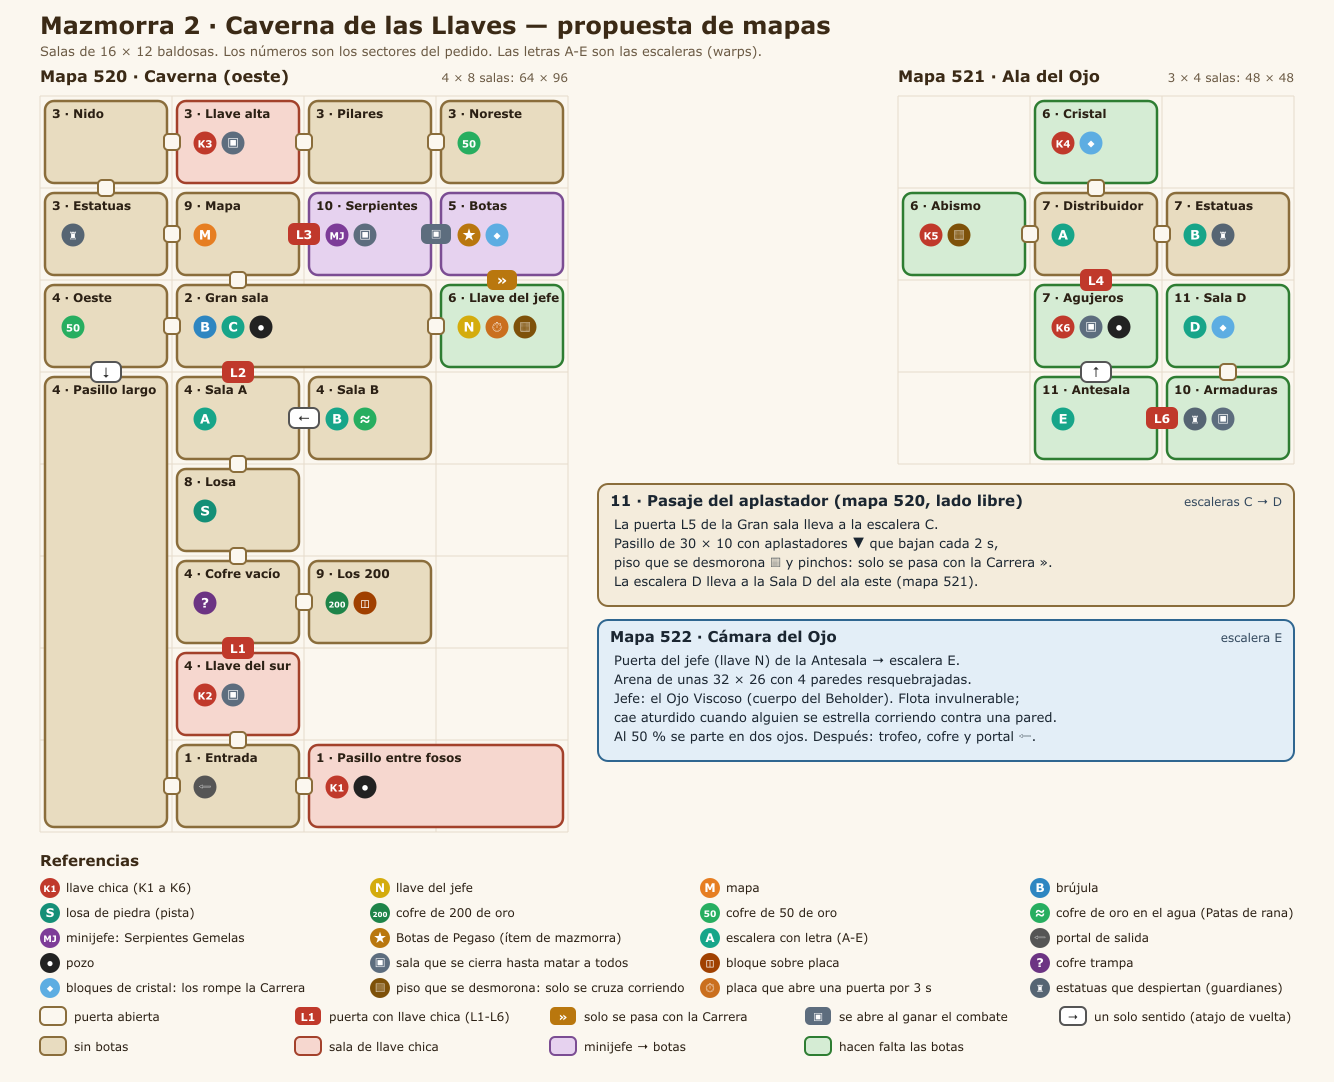
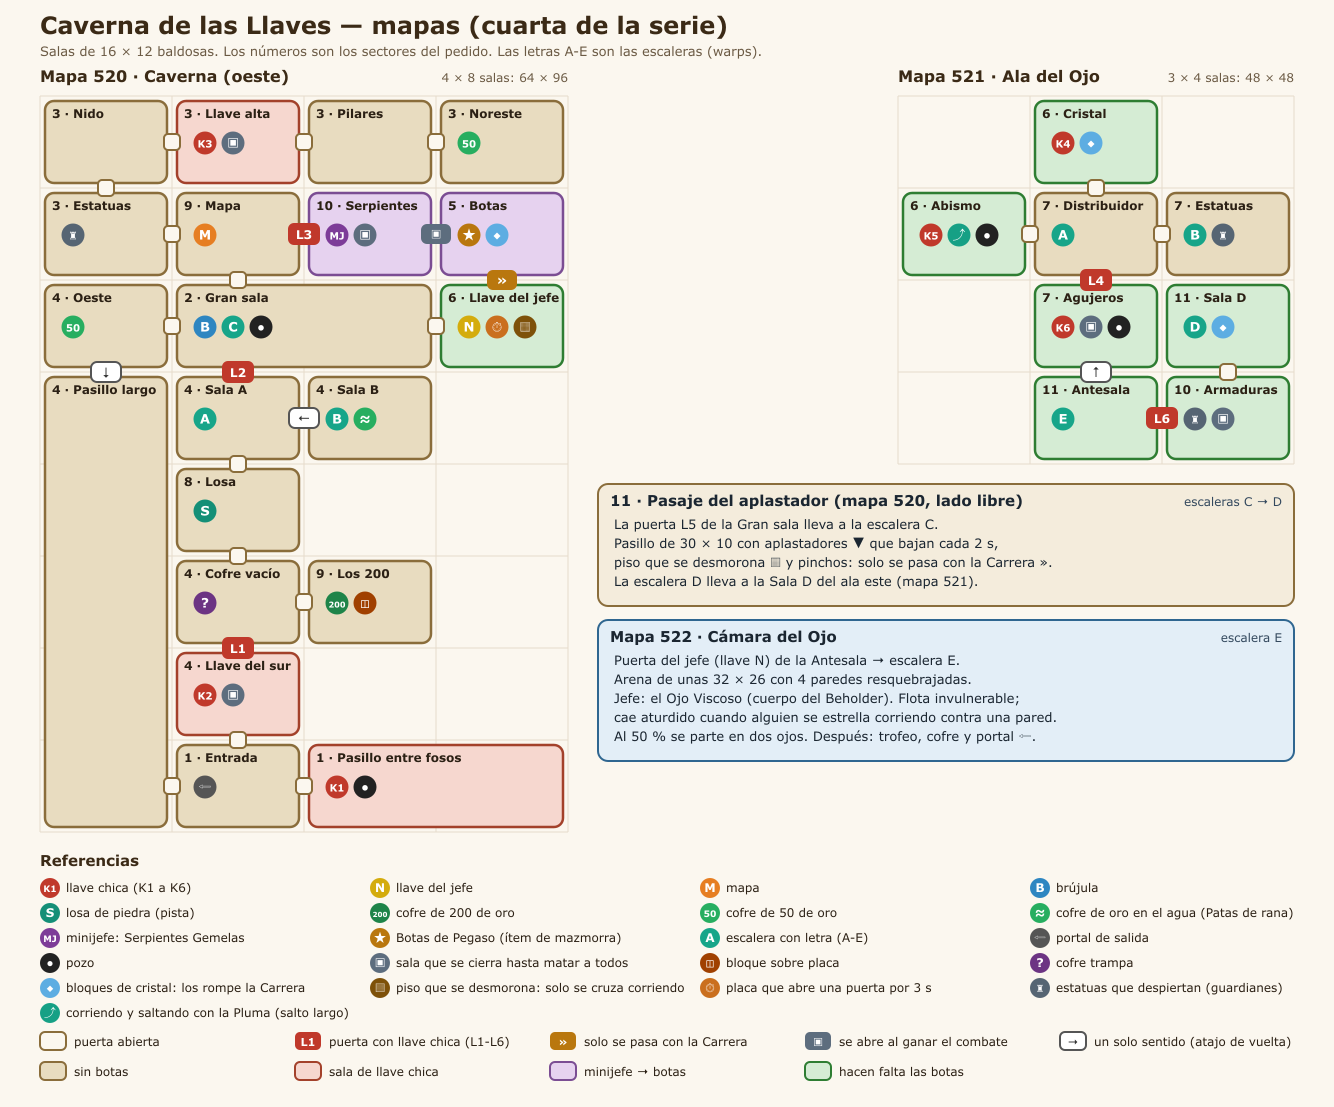
Mazmorras: patrón de Link's Awakening, la pluma y la Carrera basada en el Dash Attack anterior
- docs/mazmorras/00-PATRON_LINKS_AWAKENING.md: las mazmorras del original en orden, con su ítem, minijefes,
  jefe, instrumento y llave, el patrón de la serie y cómo se ordena la nuestra.
- La Caverna de las Llaves pasa a ser la cuarta de la serie (después de la mazmorra de la pluma): el Abismo se
  cruza corriendo y saltando, como en el original. Se especifica el salto con la pluma.
- La Carrera se basa en el Dash Attack de _Argentum/_React-Argentum, con la carga previa y la estela de Zelda.

diff --git a/docs/mazmorras/02-CAVERNA_DE_LAS_LLAVES.md b/docs/mazmorras/02-CAVERNA_DE_LAS_LLAVES.md
@@ -1,6 +1,8 @@
-# Mazmorra 2 · Caverna de las Llaves
+# Caverna de las Llaves
 
-Fecha: 2026-10-26. Estado: **diseño, a confirmar**. El sistema (instancias, grupo, ítems de mazmorra, mecánicas) está en [../MAZMORRAS.md](../MAZMORRAS.md); la mazmorra 1, en [01-GRUTA_DEL_ABISAL.md](01-GRUTA_DEL_ABISAL.md).
+Fecha: 2026-10-26. Estado: **en construcción**. El sistema (instancias, grupo, ítems de mazmorra, mecánicas) está en [../MAZMORRAS.md](../MAZMORRAS.md); la mazmorra 1, en [01-GRUTA_DEL_ABISAL.md](01-GRUTA_DEL_ABISAL.md).
+
+**Lugar en la serie:** es la cuarta, después de la mazmorra de la pluma, como en el original (ver [00-PATRON_LINKS_AWAKENING.md](00-PATRON_LINKS_AWAKENING.md)). Adentro hace falta saltar con la pluma. Hasta que exista la mazmorra que la da, la Caverna queda en desarrollo: entra un GM, y la pluma se da a mano para probar.
 
 Adaptación de la **Cueva de las Llaves** (*Key Cavern*) de *Link's Awakening*. No se copia baldosa por baldosa: se respeta la estructura jugable, que es esta:
 - muchas llaves chicas, que obligan a recorrer todo;
@@ -46,7 +48,7 @@ Una sala de 16 × 12 entra en una pantalla del juego, igual que en Zelda.
 
 ## 3. Salas
 
-Celda = (columna, fila); la fila 0 es la de arriba. Los números de sector son los del pedido (sección 8).
+Celda = (columna, fila); la fila 0 es la de arriba. Los números de sector son los del pedido (sección 9).
 
 ### Mapa 520 (oeste)
 | Sala | Celda | Sector | Contenido | Criaturas | Trampas |
@@ -79,7 +81,7 @@ Celda = (columna, fila); la fila 0 es la de arriba. Los números de sector son l
 | Distribuidor | (1,1) | 7 | **Escalera A**; puertas a las 4 salas | De presión | — |
 | Estatuas | (2,1) | 7 | **Escalera B** | Estatuas que despiertan | Pasillos entre estatuas |
 | Cristal | (1,0) | 6 | **K4** detrás de bloques de cristal | Guardianes | Bloques de cristal |
-| Abismo | (0,1) | 6 | **K5** del otro lado de un abismo, por un puente que se desmorona | De presión | Piso que se desmorona, pozos |
+| Abismo | (0,1) | 6 | **K5** del otro lado de un abismo de 2 baldosas: se cruza corriendo y saltando al llegar al borde (botas y pluma), como en el original | De presión | Pozos |
 | Agujeros | (1,2) | 7 | **K6** al vaciarla | Guardianes | Se cierra al entrar; pozos |
 | Sala D | (2,2) | 11 | **Escalera D** (llega del pasaje), entre bloques de cristal | — | Bloques de cristal |
 | Armaduras | (2,3) | 10 | Encuentro antes del jefe | Estatuas que despiertan, muchas | Se cierra al entrar |
@@ -101,7 +103,7 @@ Celda = (columna, fila); la fila 0 es la de arriba. Los números de sector son l
    - Al este, el altar con las **Botas de Pegaso**. La salida está tapada por cristales: el primer uso de la Carrera es para salir.
 3. **Con las botas** (en cualquier orden):
    - Llave del jefe: se aprieta la placa y, corriendo, se cruza el puente que se desmorona antes de que se cierre la reja: **llave del jefe**.
-   - Escalera A → ala este: Cristal (romper los cristales: **K4**) y Abismo (cruzar el puente corriendo: **K5**).
+   - Escalera A → ala este: Cristal (romper los cristales: **K4**) y Abismo (correr y saltar al llegar al borde: **K5**).
    - **L4** (Distribuidor → Agujeros): se cierra, guardianes: **K6**.
 4. **Recta final:**
    - **L5** (Gran sala → escalera C): el Pasaje del aplastador, que solo se pasa corriendo entre golpe y golpe.
@@ -118,7 +120,7 @@ Celda = (columna, fila); la fila 0 es la de arriba. Los números de sector son l
 | K2 | Llave del sur | Matar a los guardianes | L2 | Sala A → Gran sala |
 | K3 | Llave alta | Matar a los guardianes | L3 | Mapa → Serpientes |
 | K4 | Cristal | Botas (romper cristales) | L4 | Distribuidor → Agujeros |
-| K5 | Abismo | Botas (puente que se desmorona) | L5 | Gran sala → escalera C |
+| K5 | Abismo | Botas y pluma (salto largo) | L5 | Gran sala → escalera C |
 | K6 | Agujeros | Matar a los guardianes | L6 | Armaduras → Antesala |
 | Llave del jefe | Llave del jefe (520) | Botas (placa con tiempo y puente) | Puerta del jefe | Antesala → escalera E |
 
@@ -167,7 +169,8 @@ Son capturas del juego, con las criaturas de AO de las que toman el cuerpo; las 
 | Salas que se cierran | Llave del sur, Llave alta, Serpientes, Agujeros, Armaduras y el cofre trampa | Combate obligatorio |
 | Placas y bloques | Los 200 | Puzzle que da la recompensa secundaria |
 | Bloques de cristal | Botas, Cristal, Sala D | Lo que abre la Carrera |
-| Piso que se desmorona | Llave del jefe, Abismo, Pasaje | Solo se cruza corriendo |
+| Piso que se desmorona | Llave del jefe, Pasaje | Solo se cruza corriendo |
+| Pozos para saltar | Abismo (salto largo), Pasaje (pinchos) | Lo que abre la pluma |
 | Placa con tiempo | Llave del jefe | Llegar antes de que se cierre la reja |
 | Aplastadores | Pasaje | Pasillo con tiempo |
 
@@ -201,18 +204,35 @@ Pasean en 3 × 3 cuando no persiguen a nadie, como en la mazmorra de prueba. La 
 
 **Uso real en esta mazmorra:** hace falta para salir de la sala del ítem, para la llave del jefe, para K4 y K5, para el pasaje y para bajar al jefe. Sin las botas no se termina.
 
-**Base técnica:** en el juego **no hay ninguna embestida o carga implementada**: no está en el código, ni en los datos, ni en otras ramas. La Carrera se hace nueva, apoyada en lo que sí existe:
-- el paso validado por el server (`processUserMovement`), que la Carrera repite varias veces a ritmo rápido;
-- el multiplicador del tiempo de cada paso que ya usa la Descarga eléctrica (`getWalkStepMultiplier`), al revés: para acelerar en vez de frenar;
-- los efectos de polvo, los sonidos de mazmorra y el empuje.
+**Base técnica: el Dash Attack del server anterior.** Está en `leb90/_Argentum` y `leb90/_React-Argentum`, y era del guerrero de nivel 50 o más.
+- **Cómo se usaba:** se mantenía Shift izquierdo con una dirección y se soltaba.
+- **Qué hacía el server:** juntaba lo que había en el camino (hasta 4 baldosas, frenando en lo bloqueado) y movía al personaje baldosa por baldosa cada 30 ms. A los que lo veían les mandaba la posición, con un efecto cada 2 baldosas y un sonido al final, y aplicaba el daño ×1,5 a lo que había atravesado.
 
-## 7. Mecánicas nuevas que necesita
+Andaba bien. Lo que le faltaba era el aspecto de Zelda, y es lo que se suma ahora:
+- **Carga previa:** medio segundo con el personaje pataleando en el lugar (la animación de caminar, rápida y sin moverse) y polvo en los pies.
+- **Estela:** copias del personaje que se desvanecen detrás, con polvo en cada baldosa.
+- **Choque:** frena en seco, con un temblor corto y un sonido de golpe.
+
+## 7. La pluma (salto)
+
+La da la mazmorra 1 del original. Acá se usa, así que el salto queda programado con esta mazmorra. Cuando se haga la mazmorra que la entrega, se le pasa.
+- **Nombre:** Pluma de Roc (propuesta). Es un ítem de mazmorra y solo funciona adentro.
+- **Qué hace:** salta en la dirección en la que mira, en arco, con la sombra en el piso.
+  - **Parado o caminando:** cae 2 baldosas adelante, así que pasa por encima de 1 baldosa de pozo, lava, pinchos o piso que se desmorona.
+  - **Corriendo con las botas:** cae 3 baldosas adelante, por encima de 2 (el salto largo del original).
+- **Dónde no cae:** en paredes, en lo bloqueado ni en el agua profunda. Si no hay dónde caer, no salta.
+- **En el aire:** no se ataca. Se puede volver a saltar al rato (1 s).
+- **Cómo se usa:** con un atajo de teclado, un botón en la franja "Mazmorra" o uno en el celular, igual que la Carrera.
+
+## 8. Mecánicas nuevas que necesita
 
 Las de la mazmorra 1 (llaves, salas que se cierran, pozos, placas, bloques, losas, agua profunda, cofres) ya están hechas. Faltan:
 
 | Mecánica | Para qué |
 |---|---|
 | La Carrera (ítem) | El ítem de esta mazmorra |
+| El salto (pluma) | La pide el Abismo; viene de la mazmorra anterior de la serie |
+| Puertas de un solo sentido | Los atajos de vuelta (también los usa la Gruta) |
 | Bloques de cristal | Se rompen con la Carrera; no vuelven en la corrida |
 | Piso que se desmorona | Se rompe un instante después de pisarlo y queda como pozo unos segundos; caminando no se llega al otro lado |
 | Placa con tiempo | Abre una puerta por unos segundos |
@@ -221,7 +241,7 @@ Las de la mazmorra 1 (llaves, salas que se cierran, pozos, placas, bloques, losa
 | Estatuas que despiertan | Criaturas quietas hasta que alguien se acerca |
 | Criaturas en pareja | Para las Serpientes y la fase 2 del ojo: la muerta revive si la otra sigue viva |
 
-## 8. Los 11 sectores del pedido
+## 9. Los 11 sectores del pedido
 
 | Sector del pedido | Dónde queda |
 |---|---|
@@ -230,14 +250,14 @@ Las de la mazmorra 1 (llaves, salas que se cierran, pozos, placas, bloques, losa
 | 3. Rama superior de progresión | Estatuas, Nido, Llave alta (K3), Pilares y Noreste: pasillos angostos y salas chicas, empujando hacia arriba y a la derecha |
 | 4. Rama izquierda secundaria | Llave del sur (K2), Cofre vacío (trampa), Sala A y B, Oeste y el Pasillo largo como atajo |
 | 5. Sector del ítem principal | Botas: el altar después del minijefe; para salir hay que usarlas |
-| 6. Puzzle con velocidad | Llave del jefe (placa con tiempo y puente), Cristal (K4), Abismo (K5) |
+| 6. Puzzle con velocidad | Llave del jefe (placa con tiempo y puente), Cristal (K4), Abismo (K5, corriendo y saltando) |
 | 7. Rama derecha de progreso | Ala este: Distribuidor (A), Estatuas (B), Agujeros (K6), con guardianes y salas que se cierran |
 | 8. Lore / pista | Losa: la pista del jefe y de la Carrera |
 | 9. Reward secundaria | Mapa (en su pasillo) y Los 200 (puzzle de placa) |
 | 10. Encuentro importante | Serpientes Gemelas (abren las botas) y Armaduras (abren la recta final) |
 | 11. Recta final | L5 → Pasaje del aplastador → Sala D → Armaduras → Antesala → Cámara del Ojo |
 
-## 9. Para confirmar
+## 10. Para confirmar
 
 | Tema | Propuesta |
 |---|---|
@@ -246,4 +266,5 @@ Las de la mazmorra 1 (llaves, salas que se cierran, pozos, placas, bloques, losa
 | Minijefe y jefe | Serpientes Gemelas (Serpiente) y Ojo Viscoso (Beholder) |
 | Trofeo | Iris del Ojo |
 | Gráficos | Piso de tierra y paredes de roca de las cuevas de AO |
-| Orden | Primero se arma la Gruta (etapa 3 de [../MAZMORRAS.md](../MAZMORRAS.md)); después, la Carrera y las mecánicas nuevas, y por último esta mazmorra con el mismo generador de planos |
+| Pluma | Pluma de Roc, con el salto de la sección 7 |
+| Orden en la serie | Cuarta, después de la mazmorra de la pluma (ver [00-PATRON_LINKS_AWAKENING.md](00-PATRON_LINKS_AWAKENING.md)) |

diff --git a/docs/mazmorras/00-PATRON_LINKS_AWAKENING.md b/docs/mazmorras/00-PATRON_LINKS_AWAKENING.md
@@ -1,0 +1,52 @@
+# Patrón de la serie: las mazmorras de *Link's Awakening*
+
+Fecha: 2026-10-26. Es la referencia para ordenar nuestras mazmorras: qué ítem da cada una, qué ítems anteriores pide y cómo se encadenan. El sistema está en [../MAZMORRAS.md](../MAZMORRAS.md).
+
+## 1. Las mazmorras del original, en orden
+
+| # | Mazmorra (original) | Ítem que da | Para qué sirve el ítem | Minijefe(s) | Jefe | Instrumento | Para entrar hace falta |
+|---|---|---|---|---|---|---|---|
+| 1 | Cueva de la Cola (*Tail Cave*) | Pluma de Roc (*Roc's Feather*) | Saltar pozos y obstáculos chicos | Rodillo de Púas (*Spike Roller*, *Rolling Bones*) | Moldorm | Violonchelo de Luna Llena (*Full Moon Cello*) | Llave de la Cola (bosque) |
+| 2 | Gruta de la Botella (*Bottle Grotto*) | Pulsera de Fuerza (*Power Bracelet*) | Levantar y tirar vasijas, piedras y cráneos | Hinox amarillo | Genio (*Genie*) | Caracola (*Conch Horn*) | Ir con BowWow |
+| 3 | Cueva de las Llaves (*Key Cavern*) | Botas de Pegaso (*Pegasus Boots*) | Correr en línea recta; con la pluma, salto largo | Serpientes Dodongo (dos) | Ojo Viscoso (*Slime Eye*) | Campana de Lirio de Mar (*Sea Lily's Bell*) | Llave del Limo (5 hojas doradas) |
+| 4 | Túnel del Pez Abisal (*Angler's Tunnel*) | Aletas (*Flippers*) | Nadar y bucear en agua profunda | Hidrosaurio (*Cue Ball*) | Pez Abisal (*Angler Fish*) | Arpa del Oleaje (*Surf Harp*) | Llave del Abisal (Lanmola, desierto) |
+| 5 | Fauces del Bagre (*Catfish's Maw*) | Gancho (*Hookshot*) | Engancharse a cofres y bloques para cruzar | Maestro Stalfos (varias veces) y dos Gohma | Anguila Viscosa (*Slime Eel*) | Marimba del Viento (*Wind Marimba*) | Las Aletas |
+| 6 | Santuario del Rostro (*Face Shrine*) | Pulsera Poderosa (*Powerful Bracelet*) | Levantar cosas más pesadas | Serpientes Dodongo y Rover (*Smasher*) | Fachada (*Facade*) | Triángulo de Coral (*Coral Triangle*) | Llave del Rostro (Caballero Armos) |
+| 7 | Torre del Águila (*Eagle's Tower*) | Escudo Espejo (*Mirror Shield*) | Rebotar rayos y proyectiles | Hinox rojo y Grim Creeper | Águila Malvada (*Evil Eagle*) | Órgano de la Calma Vespertina (*Organ of Evening Calm*) | Llave del Pájaro |
+| 8 | Roca Tortuga (*Turtle Rock*) | Vara Mágica (*Magic Rod*) | Tirar fuego; derrite hielo | Varios minijefes anteriores y Blaino | Cabeza Ardiente (*Hot Head*) | Tambor del Trueno (*Thunder Drum*) | El Escudo Espejo |
+| — | Mazmorra del Color (opcional, versión DX) | Túnica roja o azul | Más daño o más defensa | Gran Buzz Blob y Hinox de piedra | Escarabajo Duro (*Hardhit Beetle*) | — | La Pulsera de Fuerza |
+
+Los nombres en castellano son traducciones nuestras; los del juego van entre paréntesis.
+
+## 2. El patrón
+
+- **Cada mazmorra da un ítem que se usa adentro:** la primera mitad se recorre sin él; el minijefe abre el camino al ítem y, con el ítem, se llega a lo que faltaba y al jefe.
+- **Los ítems se acumulan:** cada mazmorra usa los de las anteriores. Por ejemplo, en la Cueva de las Llaves el pozo grande se cruza corriendo con las botas y saltando con la pluma al llegar al borde. Y se entra a las Fauces del Bagre nadando con las aletas.
+- **El orden de los ítems:** saltar → levantar → correr → nadar → engancharse → levantar más → rebotar → fuego. Cada uno abre trampas nuevas en las mazmorras siguientes.
+- **El jefe se vence con el ítem de su mazmorra:** al Ojo Viscoso se lo baja estrellándose corriendo contra la pared; al Pez Abisal, nadando.
+- **Cada jefe guarda un instrumento:** son los trofeos de la serie, y juntos abren el final.
+
+## 3. Nuestra serie
+
+Cada ítem nuestro adapta uno del original, con nombre propio cuando hace falta (las Aletas son nuestras Patas de rana). Todos son ítems de mazmorra: quedan para siempre en el personaje y solo funcionan adentro.
+
+| Orden | Mazmorra nuestra | Adapta | Ítem | Estado |
+|---|---|---|---|---|
+| 1 | Gruta del Abisal | 4 · Túnel del Pez Abisal | Patas de rana (nadar) | Diseñada ([01-GRUTA_DEL_ABISAL.md](01-GRUTA_DEL_ABISAL.md)); el motor y las mecánicas ya están |
+| 2 | (a definir) | 1 · Cueva de la Cola | Pluma (saltar) | Falta el plano: el salto ya queda listo con la Caverna |
+| 3 | (a definir) | 2 · Gruta de la Botella | Pulsera (levantar) | — |
+| 4 | Caverna de las Llaves | 3 · Cueva de las Llaves | Botas de Pegaso (correr) | Diseñada ([02-CAVERNA_DE_LAS_LLAVES.md](02-CAVERNA_DE_LAS_LLAVES.md)); pide la pluma |
+| 5 en adelante | — | 5 a 8 del original | Gancho, pulsera poderosa, escudo espejo, vara | — |
+
+- **Por qué la Gruta va primera:** ya estaba diseñada y con el motor hecho, y nadar no depende de los otros ítems. Del original en adelante se respeta el orden.
+- **Por qué la Caverna va después de la mazmorra de la pluma:** la pide adentro. Hasta que esa mazmorra exista, la Caverna queda en desarrollo: entra un GM, y la pluma se puede dar a mano para probar.
+- **Números de archivo y de mapas:** siguen el orden en que se diseña cada mazmorra, no el de juego. La Caverna es el archivo 02 y usa los mapas 520-522.
+- **Trofeos:** en vez de instrumentos, cada jefe da un coleccionable de la serie (la Escama del Abisal, el Iris del Ojo, …).
+
+## Fuentes
+- [Game8: lista de mazmorras](https://game8.co/games/Zelda-Links-Awakening/archives/270111): ítem, jefe y llave para entrar de cada una.
+- [Game8: lista de minijefes](https://game8.co/games/Zelda-Links-Awakening/archives/270127).
+- [Game8: jefes](https://game8.co/games/Zelda-Links-Awakening/archives/270126).
+- [Zelda Wiki (Fandom): Fauces del Bagre](https://zelda.fandom.com/wiki/Catfish's_Maw).
+- [Gamer Guides: la Cueva de las Llaves](https://www.gamerguides.com/the-legend-of-zelda-links-awakening/guide/walkthrough/sea-lily-s-bell/key-cavern): el salto largo con las botas y la pluma, y cómo se vence a las Serpientes y al Ojo.
+- [Gamer Guides: Fauces del Bagre y Marimba del Viento](https://www.gamerguides.com/the-legend-of-zelda-links-awakening/guide/walkthrough/wind-marimba/catfish-s-maw) y [Santuario del Rostro y Triángulo de Coral](https://www.gamerguides.com/the-legend-of-zelda-links-awakening/guide/walkthrough/coral-triangle/catfish-s-maw-to-face-shrine).

diff --git a/docs/MAZMORRAS.md b/docs/MAZMORRAS.md
@@ -113,8 +113,10 @@ Todas por datos del mapa, para que las mazmorras siguientes se armen sin código
    - Un generador de mapas desde un plano en texto, con gráficos de AO, así las salas se editan fácil.
    - Los mapas 510-512, criaturas por sala, minijefe, jefe con fases, Patas de rana y recompensas.
 4. **Prueba y balance.** En vivo solo y en grupo de 5, ajuste de números y página de la wiki.
-5. **Mazmorra 2: Caverna de las Llaves.** Diseño en [mazmorras/02-CAVERNA_DE_LAS_LLAVES.md](mazmorras/02-CAVERNA_DE_LAS_LLAVES.md).
-   - Primero, el ítem (Botas de Pegaso, con la Carrera) y las mecánicas nuevas: cristales, piso que se desmorona, placa con tiempo, paredes resquebrajadas, aplastadores y estatuas que despiertan.
+5. **Caverna de las Llaves** (cuarta de la serie; el orden está en [mazmorras/00-PATRON_LINKS_AWAKENING.md](mazmorras/00-PATRON_LINKS_AWAKENING.md)). Diseño en [mazmorras/02-CAVERNA_DE_LAS_LLAVES.md](mazmorras/02-CAVERNA_DE_LAS_LLAVES.md).
+   - Primero, los ítems y las mecánicas nuevas:
+     - la Carrera (Botas de Pegaso) y el salto (Pluma, que va a dar la mazmorra anterior);
+     - cristales, piso que se desmorona, placa con tiempo, paredes resquebrajadas, aplastadores, puertas de un solo sentido y estatuas que despiertan.
    - Después, los mapas 520-522, el minijefe, el jefe y las recompensas.
 
 ## 5. Decisiones
